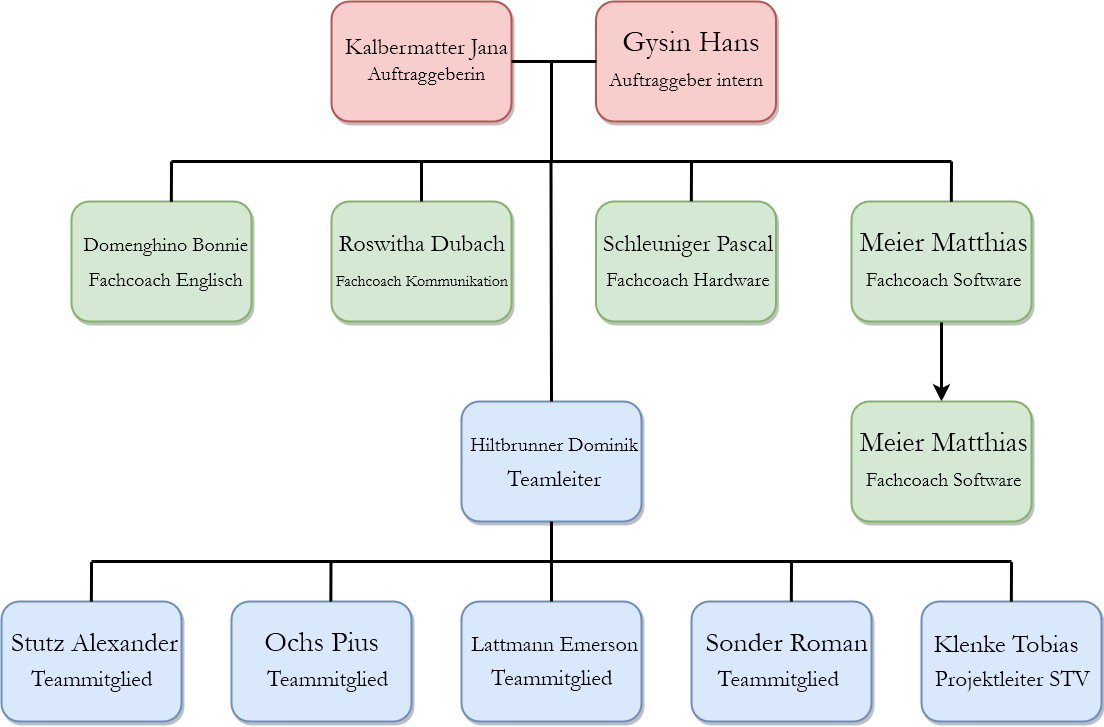
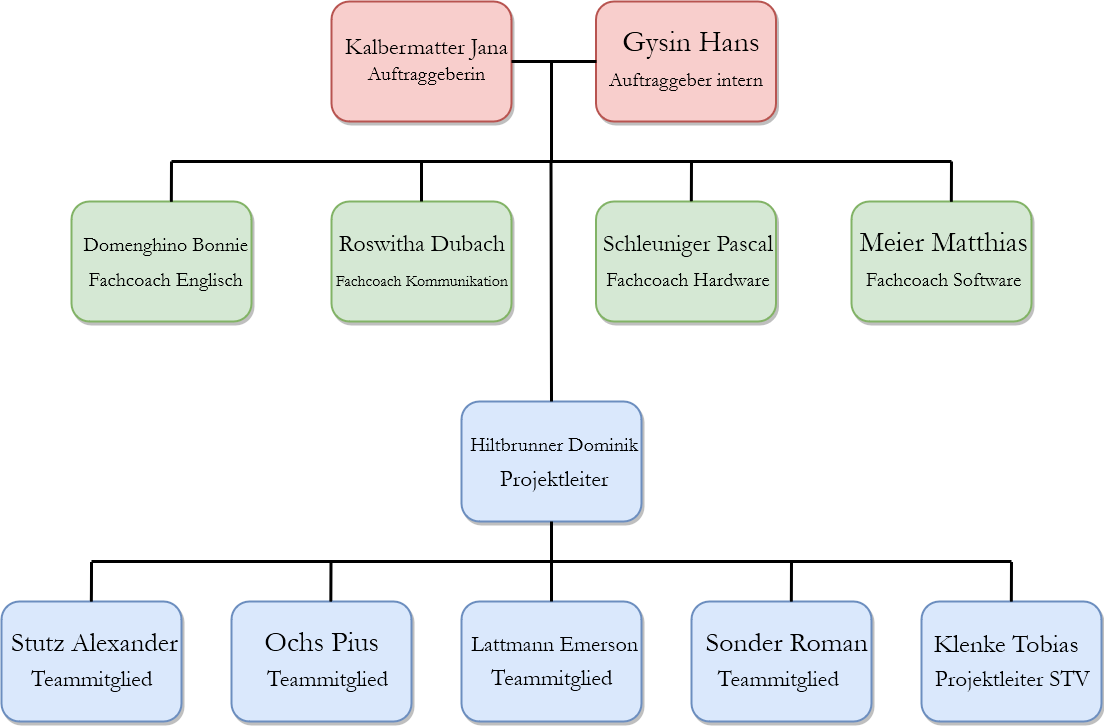
Lesefürung hinzugefügt

Changed region(s): [[0.7699, 0.5144, 0.9547, 0.7263], [0.462, 0.6355, 0.5543, 0.6657]]

diff --git a/documentation/01_product_specification_organizational/00_fhnwreport.tex b/documentation/01_product_specification_organizational/00_fhnwreport.tex
@@ -150,24 +150,24 @@ Studiengang	\> Elektro- und Informationstechnik \\[5mm]
 \pagenumbering{arabic}
 \setcounter{page}{1}
 \section{Einleitung}\label{sec:einleitung}
-Ziel dieses Projektes ist es ein Museumsführer names Dojo zu realiseren.
+Ziel dieses Projektes ist es, ein Museumsführer names Dojo zu realisieren.
 Dojo wurde funktionell und gestalterisch von Jana Kalbermatter entwickelt.
 Somit fehlt es dem Dojo-Gehäuse an Elektronik. Dies soll in diesem Projekt realisiert werden.
-Dojo ist ein Moderner Museumführer, der ohne Kopfhörer auskommt. Mittels knochenschall Kopfhörer soll der Benutzer die Informationen über die jeweiligen Kunstobjekte erhalten.
-Das stabförmige Informations-Gerät informiert via Körperschall-Übertragung über alle Kunstobjekte in dessen Nähe man sich aufhält. Man muss lediglich das Ende des Stabes hinter dem Ohr halten und hört die «Geisterstimme» mit den Ausführungen zum Kunstobjekt.
+Dojo ist ein moderner Museumführer, der ohne Kopfhörer auskommt. Mittels Knochenschallkopfhörer soll der Benutzer die Informationen über die jeweiligen Kunstobjekte erhalten.
+Das stabförmige Gerät informiert via Körperschallübertragung über alle Kunstobjekte in dessen Nähe man sich aufhält. Man muss lediglich das Ende des Stabes hinter dem Ohr halten und hört die «Geisterstimme» mit den Ausführungen zum Kunstobjekt.
 
 %%%%%%%%%%%%%%%%%%%%%%%%%%%%%%%%%%%%%%%%%%%%%%%%%%%%%%%%%%%%%%%%%%%%%%%%%%%%%%%%
 % Projektorganisation
 %%%%%%%%%%%%%%%%%%%%%%%%%%%%%%%%%%%%%%%%%%%%%%%%%%%%%%%%%%%%%%%%%%%%%%%%%%%%%%%%
 \section{Projektorganisation}\label{sec:projektorganisation}
 
-Die Studierenden werden im Projekt4(pro4E) für den Studiengang Elektro- und Informationstechnik von fünf Dozenten der Fachhochschule Nordwestschweiz (FHNW) unterstützt. Pascal Buchschacher informiert über das Projektmanagement und Roswitha Dubach vermittelt den Studenten die richtige Kommunikation innerhalb des Teams. Ansprechpartner für Fragen technischer Natur sind Pascal Schleuniger, Martin Meier und Hans Gysin, welcher auch als interner Auftraggeber agiert.
+Die Studierenden werden im Projekt4 (pro4E) für den Studiengang Elektro- und Informationstechnik von fünf Dozenten der Fachhochschule Nordwestschweiz (FHNW) unterstützt. Pascal Buchschacher informiert über das Projektmanagement und Roswitha Dubach vermittelt den Studenten die richtige Kommunikation innerhalb des Teams. Ansprechpartner für Fragen technischer Natur sind Pascal Schleuniger, Martin Meier und Hans Gysin, welcher auch als interner Auftraggeber agiert.
 Externe und eigentliche Auftraggeberin ist Jana Kalbermatter, eine Absolventin der HGK.
 
 %%%%%%%%%%%%%%%%%%%%%%%%%%%%%%%%%%%%%%%%%%%%%%%%%%%%%%%%%%%%%%%%%%%%%%%%%%%%%%%%
 \subsection{Projektteam}\label{subsec:projektteam}
 %%%%%%%%%%%%%%%%%%%%%%%%%%%%%%%%%%%%%%%%%%%%%%%%%%%%%%%%%%%%%%%%%%%%%%%%%%%%%%%
-Das Team 3 des Projekts 4, setzt sich aus sechs Studenten der Fachhochschule Nordwestschweiz, Hochschule für Technik in Brugg/Windisch zusammen. Dominik Hiltbrunner ist der Projektleiter und verantwortlich für die Arbeitsverteilung und die Kommunikation mit den Auftraggebern und den Fachdozenten. Unterstützt wird dieser vom stellvertretenden Projektleiter Tobias Klenke. Die übrigen Mitglieder sind Alexander Stutz, Roman Sonder, Pius Ochs und Emerson Lattmann. 
+Das Team 3 des Projekts 4 setzt sich aus sechs Studenten zusammen. Dominik Hiltbrunner ist der Projektleiter und verantwortlich für die Arbeitsverteilung und die Kommunikation mit den Auftraggebern sowie den Fachdozenten. Unterstützt wird dieser vom stellvertretenden Projektleiter Tobias Klenke. Die übrigen Mitglieder sind Alexander Stutz, Roman Sonder, Pius Ochs und Emerson Lattmann. 
 \newpage
 %%%%%%%%%%%%%%%%%%%%%%%%%%%%%%%%%%%%%%%%%%%%%%%%%%%%%%%%%%%%%%%%%%%%%%%%%%%%%%%
 %Organigramm
@@ -187,6 +187,8 @@ Das Team 3 des Projekts 4, setzt sich aus sechs Studenten der Fachhochschule Nor
 % Projektplanung
 %%%%%%%%%%%%%%%%%%%%%%%%%%%%%%%%%%%%%%%%%%%%%%%%%%%%%%%%%%%%%%%%%%%%%%%%%%%%%%%%
 \section{Projektplanung}\label{sec:projektplanung}
+Die Planung des Projektes wird in den folgenden zwei Tabellen dargestellt.
+In der Projektplanung ist ersichtlich, welches Teammitglied für welche Aufgaben Verantwortlich ist und wie viele Ressourcen für das jeweilige Arbeitspaket geplant sind. Ausserdem ist ersichtlich, zu welchem Zeitpunkt eine Arbeit erledigt sein sollte.
 
 \includegraphics[height=\dimexpr\textheight-4\baselineskip\relax,page=1]{projektplan_1.pdf}
 \newpage
@@ -201,14 +203,10 @@ Das Team 3 des Projekts 4, setzt sich aus sechs Studenten der Fachhochschule Nor
 % Projektbudget
 %%%%%%%%%%%%%%%%%%%%%%%%%%%%%%%%%%%%%%%%%%%%%%%%%%%%%%%%%%%%%%%%%%%%%%%%%%%%%%%%
 \section{Projektbudget}\label{sec:projektbudget}
-
-\begin{figure}[htbp]
-	\centering
-	\includegraphics[width=13.5cm]{Projektbudget.png}
-\end{figure}
+In der folgenden Tabelle  werden die Kosten für das Projekt aufgelistet und in verschiedene Bereiche geteilt. Die zwei Hauptbereiche sind der Personalaufwand und der Materialaufwand, welche in weitere kleinere Bereiche aufgeteilt werden.
 
 \noindent
-Die detaillierten Angaben zu den Personalkosten können den Projektplan entnommen werden. Es gelten folgende Stundenansätze:
+Die detaillierten Angaben zu den Personalkosten können dem Projektplan entnommen werden. Es gelten folgende Stundenansätze:
 
 \begin{tabbing}
 \hspace{80mm}			\= 	\hspace{10mm} 	\kill
@@ -217,6 +215,13 @@ Die detaillierten Angaben zu den Personalkosten können den Projektplan entnomme
 Projektleiter 			\>	129 	\\
 Wissenschaftlicher Mitarbeiter 	\> 	68	\\
 \end{tabbing}
+
+\begin{figure}[htbp]
+	\centering
+	\includegraphics[width=13.5cm]{Projektbudget.png}
+\end{figure}
+
+
 \newpage
 
 %%%%%%%%%%%%%%%%%%%%%%%%%%%%%%%%%%%%%%%%%%%%%%%%%%%%%%%%%%%%%%%%%%%%%%%%%%%%%%%%
@@ -227,7 +232,7 @@ Wissenschaftlicher Mitarbeiter 	\> 	68	\\
 \begin{figure}[htbp]
 	\centering
 	\includegraphics[width=\textwidth]{Kommunikationskonzept.png}
-	\caption{Kommunikationskonzept}
+	
 \end{figure}
 
 %%%%%%%%%%%%%%%%%%%%%%%%%%%%%%%%%%%%%%%%%%%%%%%%%%%%%%%%%%%%%%%%%%%%%%%%%%%%%%%%
@@ -246,6 +251,8 @@ Die Risiken für das Projekt Dojo wurden wie folgt eingeteilt:
 
 \newpage
 
+Auf den Seiten 8 bis 10 werden die Risiken mittels Prävention dargestellt.
+Ausserdem werden die Personen, die für die Prävention zuständig sind, aufgelistet.
 Daraus folgt die Risikomatrix mittels Prävention:
 
 \begin{figure}[htbp]
